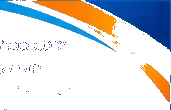
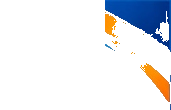
feat: apply reference layout format across all Charvik printouts, completely remove previous address, and eliminate swoosh ghost text

diff --git a/client/src/utils/printSheet.ts b/client/src/utils/printSheet.ts
@@ -3,6 +3,8 @@
  * Matches the official Charvik printed letterhead format with enclosed rounded banner
  */
 
+import { getSavedCharvikCompanyDetails } from './charvikCompanyDetails';
+
 interface PrintOptions {
   title: string;
   subtitle?: string;
@@ -117,6 +119,8 @@ export function printSheet(optionsOrHtml: PrintOptions | string, legacyOptions?:
     second: '2-digit',
     hour12: true
   });
+
+  const comp = getSavedCharvikCompanyDetails();
 
   const htmlDoc = `
     <!DOCTYPE html>
@@ -445,53 +449,88 @@ export function printSheet(optionsOrHtml: PrintOptions | string, legacyOptions?:
       </style>
     </head>
     <body>
-      <div class="printable-sheet" style="width: 100%; max-width: 100%; box-sizing: border-box;">
-        <!-- Official Enclosed Charvik Letterhead Header (Crisp Vector Quality & Correct Hyderabad Contact Details) -->
+      <div class="printable-sheet" style="width: 100%; max-width: 100%; box-sizing: border-box; border: 2px solid #002B49; border-radius: 4px; padding: 18px 22px 22px; background: #ffffff;">
+        <!-- Official Header: Colorful Logo on Left, Contact info on Right with vertical divider -->
         ${!hideHeader ? `
-        <div class="charvik-letterhead-container">
-          <div class="charvik-letterhead-logo-row">
-            <img 
-              src="/charvik-print-logo.png?v=20261120_print" 
-              alt="CHARVIK STAFFING CONSULTANCY" 
-              class="charvik-brand-logo"
-              onerror="this.src='/logo-brand.png'" 
-            />
-          </div>
-          <div class="charvik-letterhead-contacts">
-            <span class="charvik-contact-item">
-              <span class="charvik-contact-label">Phone:</span>
-              <span class="charvik-contact-val">9505151527</span>
-            </span>
-            <span class="charvik-contact-sep">•</span>
-            <span class="charvik-contact-item">
-              <span class="charvik-contact-label">Email:</span>
-              <span class="charvik-contact-val">charvikstaffingconsultancy@gmail.com</span>
-            </span>
-            <span class="charvik-contact-sep">•</span>
-            <span class="charvik-contact-item">
-              <span class="charvik-contact-label">Location:</span>
-              <span class="charvik-contact-val">Hyderabad, Telangana</span>
-            </span>
+        <div style="display: flex; align-items: center; justify-content: space-between; padding-bottom: 12px; border-bottom: 2px solid #002B49; margin-bottom: 12px;">
+          <img
+            src="/charvik-invoice-logo.png"
+            alt="CHARVIK Staffing & Consultancy"
+            style="height: 60px; max-height: 68px; width: auto; max-width: 280px; display: block; object-fit: contain;"
+            onerror="this.src='/logo-brand.png'"
+          />
+          <div style="display: flex; align-items: flex-start; border-left: 2px solid #002B49; padding-left: 14px; min-height: 68px;">
+            <div style="display: flex; flex-direction: column; gap: 3px; font-size: 11.5px; font-weight: 800; color: #002B49; line-height: 1.35;">
+              <div style="display: flex; align-items: center; gap: 7px;">
+                <span style="font-size: 12px;">📞</span>
+                <span>${comp.company_phone || '+91 9505151527'}</span>
+              </div>
+              <div style="display: flex; align-items: center; gap: 7px;">
+                <span style="font-size: 12px;">✉</span>
+                <span>${comp.company_email || 'charvikstaffingconsultancy@gmail.com'}</span>
+              </div>
+              <div style="display: flex; align-items: center; gap: 7px;">
+                <span style="font-size: 12px;">🌐</span>
+                <span>${comp.company_website || 'www.charvikstaffing.com'}</span>
+              </div>
+              <div style="display: flex; align-items: center; gap: 7px;">
+                <span style="border: 1px solid #002B49; border-radius: 3px; padding: 0 4px; font-size: 9px; font-weight: 900; letter-spacing: 0.05em;">GST</span>
+                <span>GSTIN : ${comp.company_gst || '36ABCDE1234F1Z5'}</span>
+              </div>
+              <div style="display: flex; align-items: center; gap: 7px;">
+                <span style="border: 1px solid #002B49; border-radius: 3px; padding: 0 4px; font-size: 9px; font-weight: 900; letter-spacing: 0.05em;">PAN</span>
+                <span>PAN : ${comp.company_pan || 'AABPC1234D'}</span>
+              </div>
+              <div style="display: flex; align-items: center; gap: 7px;">
+                <span style="font-size: 12px;">📍</span>
+                <span>${comp.company_address || 'Hyderabad, Telangana'}</span>
+              </div>
+            </div>
           </div>
         </div>
         ` : ''}
 
+        <!-- Centered Document Title with Accent Slashes -->
+        <div style="display: flex; justify-content: center; align-items: center; margin: 10px 0 14px 0;">
+          <div style="display: flex; align-items: center; gap: 8px; width: 100%; max-width: 480px;">
+            <span style="color: #ea580c; font-weight: 900; font-size: 18px; letter-spacing: -2px;">///</span>
+            <div style="flex: 1; background-color: #002B49; color: #ffffff; text-align: center; padding: 6px 18px; border-radius: 20px; font-weight: 900; font-size: 13.5px; letter-spacing: 0.08em; text-transform: uppercase;">
+              ${title}
+            </div>
+            <span style="color: #ea580c; font-weight: 900; font-size: 18px; letter-spacing: -2px;">///</span>
+          </div>
+        </div>
+
         <!-- Title & Meta Strip Box -->
         ${!hideMetaBar ? `
-        <div class="charvik-meta-bar">
-          <div class="charvik-meta-left">
-            <span class="charvik-meta-title">${title}</span>
-            ${subtitle ? `<span class="charvik-meta-subtitle">• ${subtitle}</span>` : ''}
+        <div class="charvik-meta-bar" style="border: 1.5px solid #93c5fd; border-radius: 6px; padding: 6px 12px; display: flex; justify-content: space-between; align-items: center; background: #eef6fc; margin-bottom: 14px;">
+          <div class="charvik-meta-left" style="font-size: 11px; font-weight: 700; color: #1e3a8a;">
+            <span>Official Record Statement</span>
+            ${subtitle ? `<span style="margin-left: 6px;">• ${subtitle}</span>` : ''}
           </div>
-          <div class="charvik-meta-datetime">
+          <div class="charvik-meta-datetime" style="font-size: 11px; font-weight: 800; color: #002B49;">
             Date: ${dateLabel} &nbsp;|&nbsp; Time: ${timeLabel}
           </div>
         </div>
         ` : ''}
 
         <!-- Printable Table / Body -->
-        <div class="print-body" style="width: 100%; max-width: 100%; box-sizing: border-box;">
+        <div class="print-body" style="width: 100%; max-width: 100%; box-sizing: border-box; margin-bottom: 16px;">
           ${bodyContent}
+        </div>
+
+        <!-- Bottom Notice & Authorized Signatory Strip -->
+        <div style="display: flex; align-items: flex-end; justify-content: space-between; padding-top: 14px; border-top: 1.5px solid #002B49; margin-top: 18px;">
+          <div style="font-size: 10.5px; color: #475569; line-height: 1.45;">
+            <div style="font-weight: 800; color: #002B49; margin-bottom: 2px;">Notice:</div>
+            <div>1. This is a computer generated official statement by Charvik Staffing & Consultancy.</div>
+            <div>2. Location: ${comp.company_address || 'Hyderabad, Telangana'}</div>
+          </div>
+          <div style="text-align: center; min-width: 200px;">
+            <div style="width: 180px; border-top: 1.5px dashed #002B49; margin: 0 auto 5px auto;"></div>
+            <div style="font-size: 11px; font-weight: 900; color: #002B49;">Authorized Signatory / Seal</div>
+            <div style="font-size: 10px; font-weight: 700; color: #475569;">Charvik Staffing & Consultancy</div>
+          </div>
         </div>
       </div>
     </body>

diff --git a/client/src/utils/statementPdf.ts b/client/src/utils/statementPdf.ts
@@ -2,6 +2,7 @@ import jsPDF from "jspdf";
 import autoTable from "jspdf-autotable";
 import { formatEmployeeId } from "./employeeCode";
 import { CHARVIK_LOGO_BASE64 } from "./charvikLogoData";
+import { getSavedCharvikCompanyDetails } from "./charvikCompanyDetails";
 
 export interface StatementPdfData {
   employee: {
@@ -142,11 +143,12 @@ export function buildSalaryPdfDoc(data: StatementPdfData): jsPDF {
   }
 
   // 2. Contact Strip
+  const comp = getSavedCharvikCompanyDetails();
   doc.setFont("helvetica", "normal");
   doc.setFontSize(7.5);
   doc.setTextColor(51, 65, 85);
   doc.text(
-    "Phone: +91 9505151527   |   Email: charvikstaffingconsultancy@gmail.com   |   Web: www.charvikstaffing.com   |   Hyderabad, Telangana",
+    `Phone: ${comp.company_phone || '+91 9505151527'}   |   Email: ${comp.company_email || 'charvikstaffingconsultancy@gmail.com'}   |   Web: ${comp.company_website || 'www.charvikstaffing.com'}   |   ${comp.company_address || 'Hyderabad, Telangana'}`,
     pageWidth / 2,
     33,
     { align: "center" }

diff --git a/client/src/pages/RecordManagement.tsx b/client/src/pages/RecordManagement.tsx
@@ -1732,13 +1732,13 @@ export const RecordManagement: React.FC = () => {
               >
                 {/* Top-Right Swoosh Graphic Accent */}
                 <img
-                  src="/vyshnavi-top-swoosh.png?v=clean"
+                  src="/vyshnavi-top-swoosh.png?v=clean_20261124_01"
                   alt=""
                   style={{
                     position: 'absolute',
                     top: 0,
                     right: 0,
-                    width: '135px',
+                    width: '120px',
                     height: 'auto',
                     pointerEvents: 'none',
                     zIndex: 1,

diff --git a/client/src/pages/VyshnaviTravels.tsx b/client/src/pages/VyshnaviTravels.tsx
@@ -3674,13 +3674,13 @@ export const VyshnaviTravels: React.FC = () => {
               >
                 {/* Top-Right Swoosh Graphic Accent */}
                 <img
-                  src="/vyshnavi-top-swoosh.png?v=clean"
+                  src="/vyshnavi-top-swoosh.png?v=clean_20261124_01"
                   alt=""
                   style={{
                     position: 'absolute',
                     top: 0,
                     right: 0,
-                    width: '135px',
+                    width: '120px',
                     height: 'auto',
                     pointerEvents: 'none',
                     zIndex: 1,

diff --git a/client/src/components/common/OperatorSearchSelect.tsx b/client/src/components/common/OperatorSearchSelect.tsx
@@ -49,7 +49,7 @@ export const DEFAULT_PRESET_OPERATORS: RegisteredOperator[] = [
     contactPerson: 'Ramya',
     phone: '9505151527',
     email: 'charvikstaffingconsulrancy@gmail.com',
-    address: 'NH65, opp. Bajaj Electronic, beside Kakinada Subbayya Gari Hotel, Agamaiah Nagar Colony, Bank Colony, L. B. Nagar, Vanasthalipuram, Hyderabad, Telangana',
+    address: 'Hyderabad, Telangana',
     gstOrPan: '36GGGGG0000WG6G'
   },
   {

diff --git a/client/src/services/seedData.ts b/client/src/services/seedData.ts
@@ -2953,7 +2953,7 @@ export const BASE_APP_SETTINGS: any = [
   },
   {
     "key": "office_address",
-    "value": "NH65, opp. Bajaj Electronic, beside Kakinada Subbayya Gari Hotel, Agamaiah Nagar Colony, Bank Colony, L. B. Nagar, Vanasthalipuram, Hyderabad, Telangana",
+    "value": "Hyderabad, Telangana",
     "description": "Head office address",
     "updated_at": "2026-10-16 17:01:55"
   },
